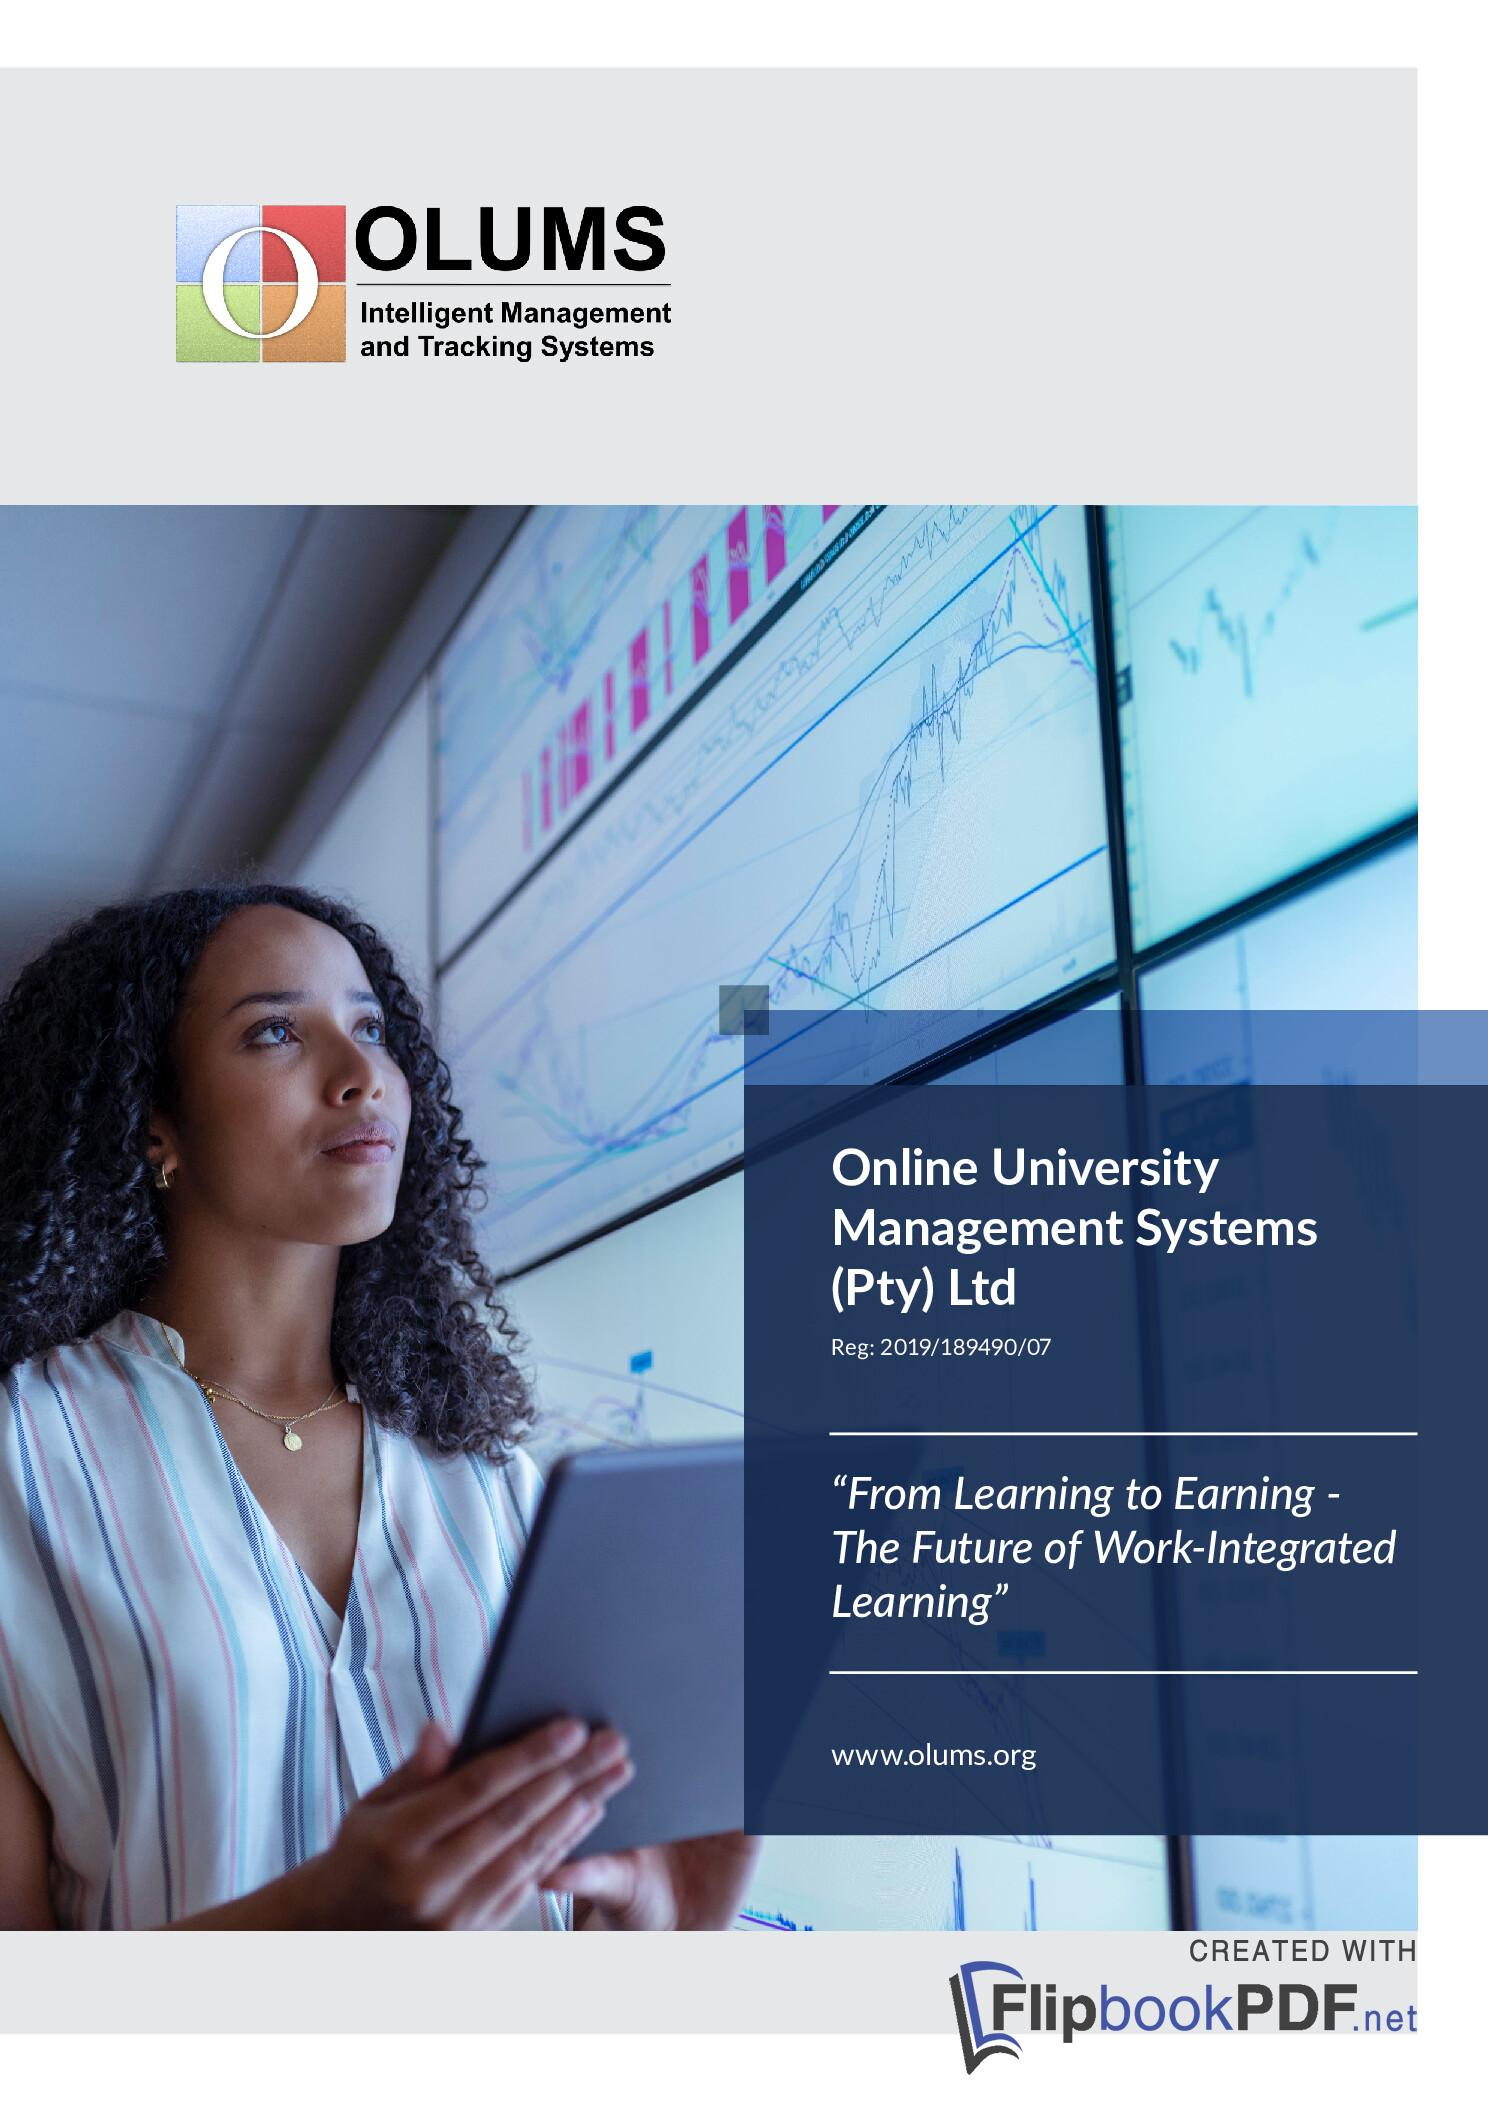
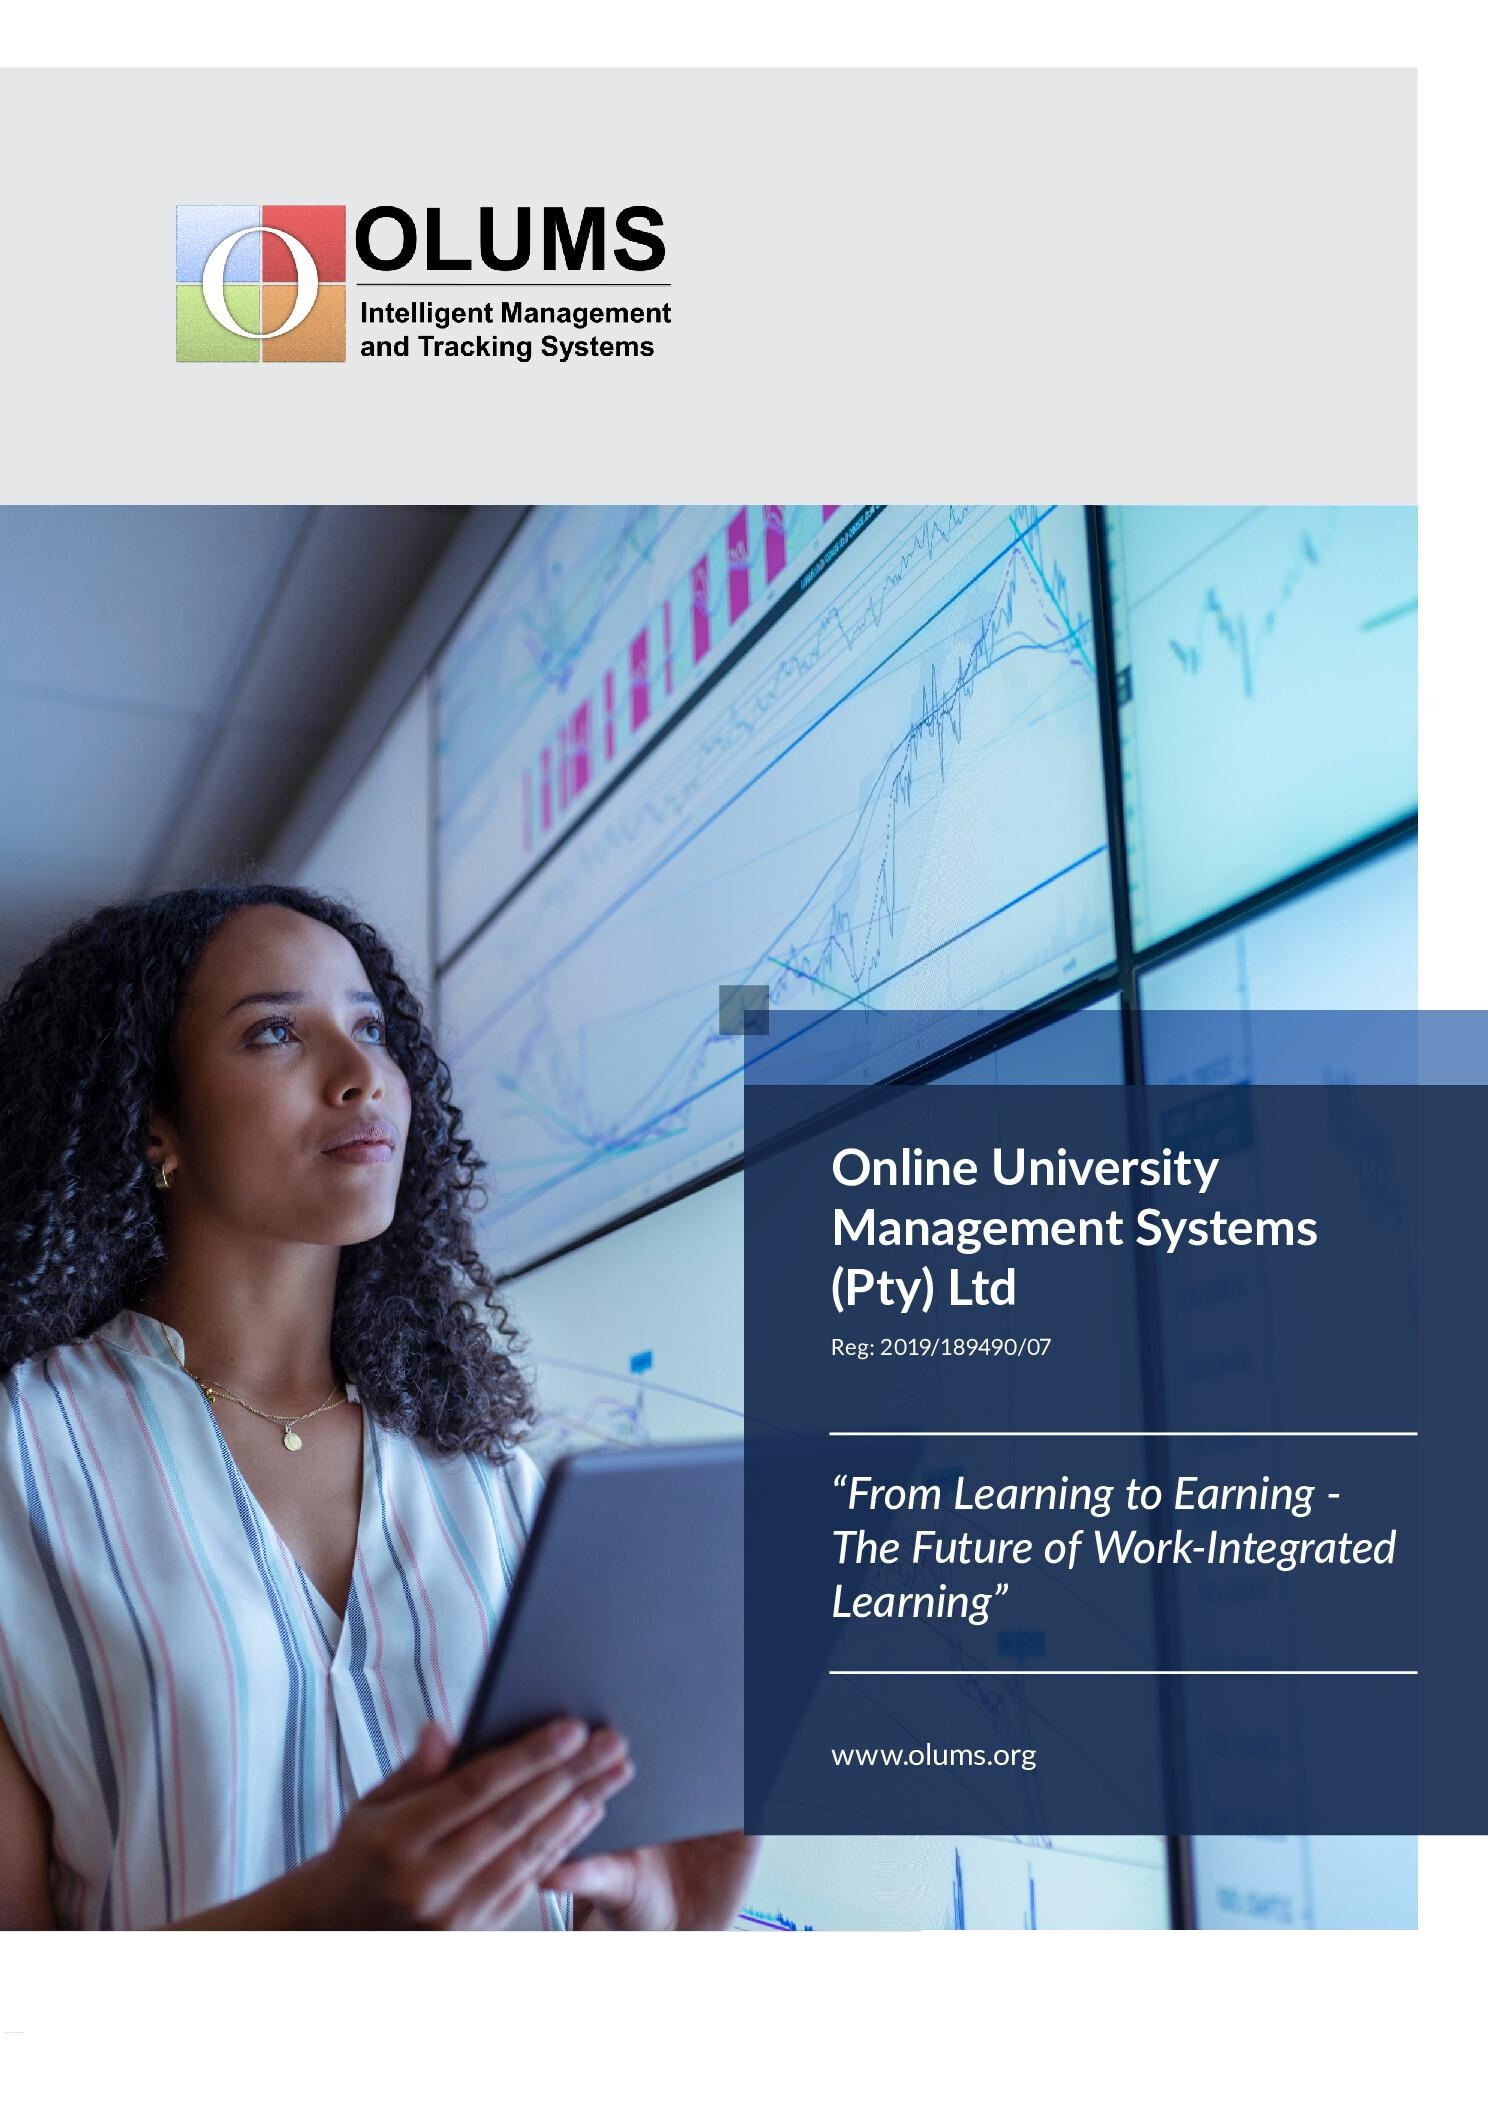
Add files via upload

Changed region(s): [[0.0, 0.8955, 0.9583, 0.9881]]

diff --git a/index.html b/index.html
@@ -25,12 +25,12 @@
             showSlider: null,
             showSocial: null,
             showformat: 2,
-            companyLogo: "https:\/\/www.flipbookpdf.net\/web\/site\/img\/logonet.png",
+            // companyLogo: "https:\/\/www.flipbookpdf.net\/web\/site\/img\/logonet.png",
             title: "",
-            tagtitle: "Flipbook", 
+            tagtitle: "OLUMN", 
            description: "", 
             showDownload: null,
-            backlink: "https:\/\/www.flipbookpdf.net",
+            backlink: "https:\/\/www.olums.org",
             opacity: 0.40000000000000002220446049250313080847263336181640625,
             name: "39fa1cc46b362004a63a5812c10abb1baecf4130202509.pdf",
             direction: "ltr", 
@@ -119,8 +119,8 @@ width: 100%;
 <audio id="audio" src="flipbook/pics/page-flip.mp3"></audio>
 
 
-<a href="https://www.flipbookpdf.net">
-<img src="https://www.flipbookpdf.net/web/site/img/logonet.png" style="position: absolute;bottom:15px;left: 15px;z-index: 100;height: auto; width: auto; max-width: 16%; max-height: 19%;"></a>
+<!-- <a href="https://www.flipbookpdf.net">
+<img src="https://www.flipbookpdf.net/web/site/img/logonet.png" style="position: absolute;bottom:15px;left: 15px;z-index: 100;height: auto; width: auto; max-width: 16%; max-height: 19%;"></a> -->
 
 
     <div class="flipbook-title" style="display: none;">
